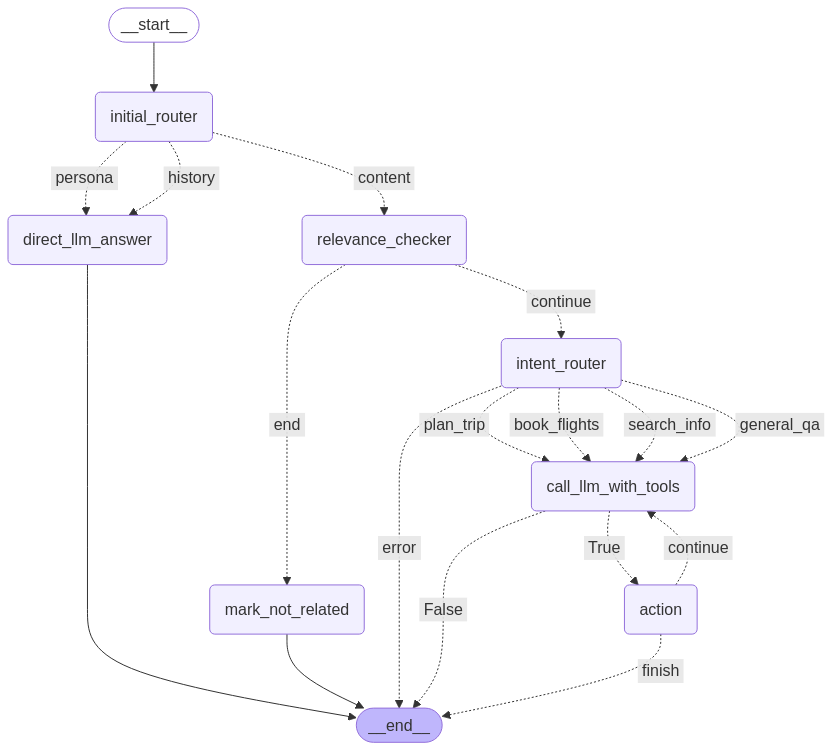
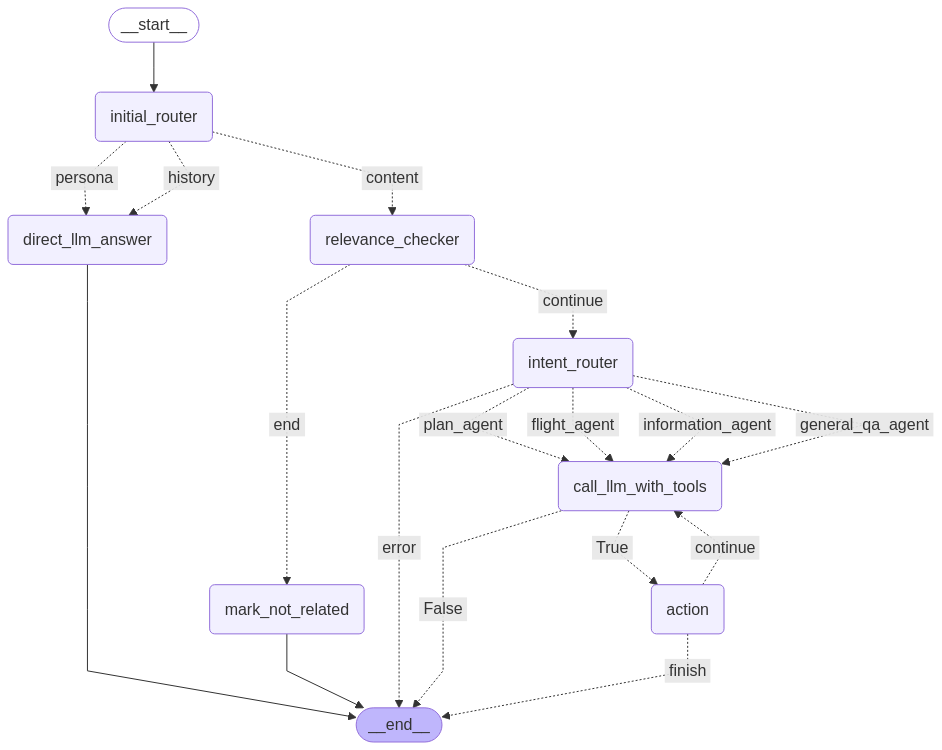
adjust name of function and add mitigation strategies

diff --git a/agents/graph.py b/agents/graph.py
@@ -11,6 +11,7 @@ from agents.tools import plan_da_nang_trip_tool, book_flights_tool
 import sqlite3
 import json
 import logging
+from .history_manager import summarize_conversation_history, prune_conversation_history
 
 load_dotenv()
 
@@ -81,10 +82,10 @@ If a query is irrelevant (not about Da Nang travel, flights to/from relevant loc
             "intent_router",
             self.route_based_on_intent,
             {
-                "plan_trip": "call_llm_with_tools",
-                "book_flights": "call_llm_with_tools",
-                "search_info": "call_llm_with_tools",
-                "general_qa": "call_llm_with_tools",
+                "plan_agent": "call_llm_with_tools",
+                "flight_agent": "call_llm_with_tools",
+                "information_agent": "call_llm_with_tools",
+                "general_qa_agent": "call_llm_with_tools",
                 "error": END
             }
         )
@@ -123,7 +124,7 @@ If a query is irrelevant (not about Da Nang travel, flights to/from relevant loc
 Respond only with the category name.""")
 
         try:
-            print(f"Full message 123123: {state['messages']}")
+            # print(f"Full message 123123: {state['messages']}")
             response = self.router_llm.invoke([routing_prompt, user_message])
             # Strip whitespace, lowercase, AND strip potential quotes
             query_type = response.content.strip().lower().strip('\'"') 
@@ -158,10 +159,18 @@ Respond only with the category name.""")
     def direct_llm_answer(self, state: AgentState):
         """Answers persona or history questions directly using the main LLM (without tools bound initially)."""
         messages = state['messages']
+
+        # <<< APPLY HISTORY MANAGEMENT HERE TOO >>>
+        # Option 1: Summarization
+        messages = summarize_conversation_history(messages, self.llm) # Pass the appropriate LLM instance
+        # Option 2: Pruning
+        # messages = prune_conversation_history(messages)
+
+        # Ensure system prompt if needed (your existing logic)
         if not any(isinstance(m, SystemMessage) for m in messages):
              messages = [SystemMessage(content=self.system)] + messages
 
-        message = self.llm.invoke(messages)
+        message = self.model.invoke(messages)
         return {'messages': [message]}
 
     def check_relevance(self, state: AgentState):
@@ -208,20 +217,20 @@ Respond only with the word 'end' if it IS NOT related.""")
             return {"intent": "error"}
 
         intent_prompt = SystemMessage(content="""Given the user query (which is relevant to Da Nang travel), classify the primary intent:
-- 'plan_trip': User wants a travel plan/itinerary for Da Nang (e.g., 'plan a 3 day trip to Da Nang', 'make an itinerary').
-- 'book_flights': User is asking about flights, potentially to or from Da Nang (e.g., 'flights from Hanoi?', 'show flights on April 19th', 'book a flight from Saigon?').
-- 'search_info': User is asking a question likely requiring external, up-to-date information about Da Nang (weather, opening hours, specific events, prices) that isn't about flights or planning.
-- 'general_qa': User is asking a general question about Da Nang that might be answerable from general knowledge or conversation history, without needing specific tools.
-Respond only with 'plan_trip', 'book_flights', 'search_info', or 'general_qa'.""")
+- 'plan_agent': User wants a travel plan/itinerary for Da Nang (e.g., 'plan a 3 day trip to Da Nang', 'make an itinerary').
+- 'flight_agent': User is asking about flights, potentially to or from Da Nang (e.g., 'flights from Hanoi?', 'show flights on April 19th', 'book a flight from Saigon?').
+- 'information_agent': User is asking a question likely requiring external, up-to-date information about Da Nang (weather, opening hours, specific events, prices) that isn't about flights or planning.
+- 'general_qa_agent': User is asking a general question about Da Nang that might be answerable from general knowledge or conversation history, without needing specific tools.
+Respond only with 'plan_agent', 'flight_agent', 'information_agent', or 'general_qa_agent'.""")
 
         try:
             response = self.router_llm.invoke([intent_prompt, user_message])
             intent = response.content.strip().lower()
             print(f"Intent routing for query '{user_message.content[:50]}...': {intent}")
-            valid_intents = ["plan_trip", "book_flights", "search_info", "general_qa"]
+            valid_intents = ["plan_agent", "flight_agent", "information_agent", "general_qa_agent"]
             if intent not in valid_intents:
-                print(f"Warning: Intent routing returned unexpected value: {intent}. Defaulting to 'general_qa'.")
-                intent = "general_qa"
+                print(f"Warning: Intent routing returned unexpected value: {intent}. Defaulting to 'general_qa_agent'.")
+                intent = "general_qa_agent"
         except Exception as e:
              print(f"Error during intent routing: {e}")
              traceback.print_exc()
@@ -234,7 +243,7 @@ Respond only with 'plan_trip', 'book_flights', 'search_info', or 'general_qa'.""
         intent = state.get("intent")
         print(f"Routing based on intent: {intent}")
         if intent:
-            if intent in ["plan_trip", "book_flights", "search_info", "general_qa"]:
+            if intent in ["plan_agent", "flight_agent", "information_agent", "general_qa_agent"]:
                 return intent
             else:
                 print(f"Warning: Invalid intent '{intent}' found in state. Defaulting to error.")
@@ -247,8 +256,15 @@ Respond only with 'plan_trip', 'book_flights', 'search_info', or 'general_qa'.""
         """Calls the main LLM bound with all relevant tools."""
         print("--- Calling LLM with Tools ---")
         messages = state['messages']
+
+        # <<< APPLY HISTORY MANAGEMENT HERE >>>
+        # Option 1: Summarization
+        messages = summarize_conversation_history(messages, self.llm) # Pass the appropriate LLM instance
+        # Option 2: Pruning
+        # messages = prune_conversation_history(messages)
+
         if not any(isinstance(m, SystemMessage) for m in messages):
-             messages = [SystemMessage(content=self.system)] + messages
+            messages = [SystemMessage(content=self.system)] + messages
 
         print("Messages being sent to LLM:")
         for msg in messages:
@@ -260,7 +276,7 @@ Respond only with 'plan_trip', 'book_flights', 'search_info', or 'general_qa'.""
             else:
                  print(f"    Content: {str(msg.content)[:100]}...")
 
-        print(f"Calling model with messages: {[m.type for m in messages]}")
+        print(f"Calling model with potentially modified messages: {[m.type for m in messages]}")
         message = self.model.invoke(messages)
         print(f"LLM response type: {message.type}")
         if hasattr(message, 'tool_calls') and message.tool_calls:
@@ -458,12 +474,12 @@ Respond only with 'plan_trip', 'book_flights', 'search_info', or 'general_qa'.""
                     intent = "direct_answer"
                 # Prioritize book_flights success
                 elif final_response_data is not None:
-                    intent = "book_flights"
+                    intent = "flight_agent"
                 # Prioritize not related
                 elif final_relevance == "end":
                      intent = "not_related"
                 # Use intent set by intent_router if valid
-                elif final_intent_field in ["plan_trip", "book_flights", "search_info", "general_qa"]:
+                elif final_intent_field in ["plan_agent", "flight_agent", "information_agent", "general_qa_agent"]:
                      intent = final_intent_field
                 # Fallback based on final message content if intent is still unknown (e.g., error occurred)
                 else:
@@ -474,7 +490,7 @@ Respond only with 'plan_trip', 'book_flights', 'search_info', or 'general_qa'.""
                              if "I apologize, but I specialize only in travel related to Da Nang" in final_message.content:
                                  intent = "not_related"
                              else:
-                                 intent = "general_qa" # Default for other AIMessages
+                                 intent = "general_qa_agent" # Default for other AIMessages
                         # ... (keep other message type fallbacks if needed) ...
                     else:
                          intent = "error" # If state is invalid
@@ -484,9 +500,9 @@ Respond only with 'plan_trip', 'book_flights', 'search_info', or 'general_qa'.""
                  response_content = final_state["final_response_data"]
                  print(f"Graph finished. Using final_response_data (Type: {type(response_content)}). Intent: {intent}")
                  # Ensure intent is correctly set for this case
-                 if intent != "book_flights":
-                     logging.warning(f"final_response_data was set, but intent is '{intent}'. Forcing to 'book_flights'.")
-                     intent = "book_flights"
+                 if intent != "flight_agent":
+                     logging.warning(f"final_response_data was set, but intent is '{intent}'. Forcing to 'flight_agent'.")
+                     intent = "flight_agent"
             
             # --- Otherwise, process final message as before --- 
             elif final_state and 'messages' in final_state and final_state['messages']:
@@ -502,11 +518,11 @@ Respond only with 'plan_trip', 'book_flights', 'search_info', or 'general_qa'.""
                      if intent == "error" and "I apologize, but I specialize only in travel related to Da Nang" in response_content:
                          intent = "not_related"
                      # Explicitly set intent if LLM answers directly without tool use after intent routing
-                     elif intent in ["plan_trip", "book_flights", "search_info", "general_qa"] and not hasattr(final_message, 'tool_calls'):
+                     elif intent in ["plan_agent", "flight_agent", "information_agent", "general_qa_agent"] and not hasattr(final_message, 'tool_calls'):
                          print(f"LLM answered directly after intent routing ({intent}). Setting final intent.")
                          pass # Intent should already be correctly set from routing
                      elif intent == "error": # Fallback if intent still unknown
-                        intent = "general_qa" 
+                        intent = "general_qa_agent" 
 
                  elif isinstance(final_message, ToolMessage):
                       print(f"Warning: Graph ended with a ToolMessage: Name='{final_message.name}', Content='{final_message.content[:100]}...'")
@@ -538,10 +554,10 @@ Respond only with 'plan_trip', 'book_flights', 'search_info', or 'general_qa'.""
              intent = "error" # Ensure intent is 'error' on exception
 
         # Ensure intent is one of the expected values or a status
-        valid_intents = ["plan_trip", "book_flights", "search_info", "general_qa", "direct_answer", "not_related", "error"]
+        valid_intents = ["plan_agent", "flight_agent", "information_agent", "general_qa_agent", "direct_answer", "not_related", "error"]
         if intent not in valid_intents:
-             print(f"Warning: Final intent '{intent}' is not in the expected list. Setting to 'general_qa'.")
-             intent = "general_qa" # Fallback to a sensible default if something unexpected happened
+             print(f"Warning: Final intent '{intent}' is not in the expected list. Setting to 'general_qa_agent'.")
+             intent = "general_qa_agent" # Fallback to a sensible default if something unexpected happened
 
         print(f"--- Returning response with intent: {intent} ---")
         return {"response": response_content, "intent": intent}

diff --git a/agents/history_manager.py b/agents/history_manager.py
@@ -1,0 +1,199 @@
+from typing import List, Dict, Any, Optional
+from langchain_core.messages import BaseMessage, SystemMessage, HumanMessage, AIMessage, ToolMessage
+from langchain_core.language_models import BaseChatModel
+import logging
+
+# --- Configuration ---
+# Adjust these thresholds as needed
+SUMMARIZATION_MSG_THRESHOLD = 12 # Summarize if more than this many messages (excluding system prompt)
+PRUNING_MSG_THRESHOLD = 15       # Prune if more than this many messages (excluding system prompt)
+RECENT_MSGS_TO_KEEP = 5          # How many recent messages to always keep during summarization/pruning
+
+# --- Summarization Strategy ---
+
+def summarize_conversation_history(
+    messages: List[BaseMessage],
+    llm: BaseChatModel,
+    threshold: int = SUMMARIZATION_MSG_THRESHOLD,
+    keep_recent: int = RECENT_MSGS_TO_KEEP
+) -> List[BaseMessage]:
+    """
+    Summarizes older parts of the conversation history if it exceeds a threshold.
+
+    Args:
+        messages: The current list of messages.
+        llm: The language model to use for summarization.
+        threshold: The number of messages (excluding system prompt) above which summarization occurs.
+        keep_recent: The number of recent messages to keep outside the summary.
+
+    Returns:
+        A potentially summarized list of messages.
+    """
+    if not messages:
+        return []
+
+    system_prompt: Optional[SystemMessage] = None
+    if isinstance(messages[0], SystemMessage):
+        system_prompt = messages[0]
+        run_messages = messages[1:]
+    else:
+        run_messages = messages
+
+    if len(run_messages) <= threshold:
+        logging.debug("Message count below threshold, skipping summarization.")
+
+        return messages # No summarization needed
+
+    logging.info(f"Message count ({len(run_messages)}) exceeds threshold ({threshold}), attempting summarization.")
+
+    # Separate messages to summarize and messages to keep
+    messages_to_summarize = run_messages[:-keep_recent]
+    messages_to_keep = run_messages[-keep_recent:]
+
+    if not messages_to_summarize:
+        logging.warning("Summarization triggered, but no messages identified to summarize.")
+        return messages # Should not happen with threshold logic, but safety check
+
+    summarization_prompt = HumanMessage(
+        content="""Please summarize the key information and decisions made in the preceding conversation messages. Focus on details relevant to the user's travel planning goals (e.g., requested duration, dates, origin/destination, specific interests mentioned, flight details discussed). Be concise. The summary will be used as context for the ongoing conversation.
+
+CONVERSATION TO SUMMARIZE:
+""" + "\n".join([f"{type(m).__name__}: {m.content}" for m in messages_to_summarize])
+    )
+
+    try:
+        # Use a separate, potentially cheaper/faster model for summarization if desired
+        summary_response = llm.invoke([summarization_prompt])
+        summary_text = summary_response.content
+        summary_message = AIMessage(content=f"Summary of earlier conversation: {summary_text}")
+        logging.info("Summarization successful.")
+
+        # Construct the new message list
+        new_messages = []
+        if system_prompt:
+            new_messages.append(system_prompt)
+        new_messages.append(summary_message)
+        new_messages.extend(messages_to_keep)
+        return new_messages
+
+    except Exception as e:
+        logging.error(f"Error during conversation summarization: {e}")
+        # Fallback: Return original messages if summarization fails
+        return messages
+
+
+# --- Selective Pruning Strategy ---
+
+def prune_conversation_history(
+    messages: List[BaseMessage],
+    max_messages: int = PRUNING_MSG_THRESHOLD,
+    keep_recent: int = RECENT_MSGS_TO_KEEP
+) -> List[BaseMessage]:
+    """
+    Prunes the conversation history if it exceeds a maximum message count,
+    attempting to keep the system prompt, the first user message,
+    tool interactions, and recent messages.
+
+    Args:
+        messages: The current list of messages.
+        max_messages: The maximum number of messages (excluding system prompt) to keep.
+        keep_recent: The number of recent messages to always keep.
+
+    Returns:
+        A potentially pruned list of messages.
+    """
+    if not messages:
+        return []
+
+    system_prompt: Optional[SystemMessage] = None
+    first_human_message: Optional[HumanMessage] = None
+    if isinstance(messages[0], SystemMessage):
+        system_prompt = messages[0]
+        run_messages = messages[1:]
+    else:
+        run_messages = messages
+
+    if len(run_messages) <= max_messages:
+        logging.debug("Message count below threshold, skipping pruning.")
+        return messages # No pruning needed
+
+    logging.info(f"Message count ({len(run_messages)}) exceeds threshold ({max_messages}), attempting pruning.")
+
+    messages_to_consider = run_messages[:-keep_recent]
+    recent_messages = run_messages[-keep_recent:]
+
+    if not messages_to_consider:
+        return messages # Should not happen, safety check
+
+    # Identify messages to keep from the older part
+    kept_older_messages = []
+    # Keep the very first human message (often contains the initial request)
+    if messages_to_consider and isinstance(messages_to_consider[0], HumanMessage):
+         first_human_message = messages_to_consider[0]
+         kept_older_messages.append(first_human_message)
+
+    # Keep tool calls and their results (can be important context)
+    for msg in messages_to_consider[1:]: # Skip first human message if already added
+        if isinstance(msg, (ToolMessage, AIMessage)) and hasattr(msg, 'tool_calls') and msg.tool_calls:
+             kept_older_messages.append(msg)
+        elif isinstance(msg, ToolMessage): # Keep standalone tool messages too
+             kept_older_messages.append(msg)
+
+
+    # Combine kept messages, ensuring no duplicates and respecting order where possible
+    # This is a simple approach; more sophisticated logic could be added
+    final_kept_older = []
+    seen_ids = set()
+    if first_human_message:
+        final_kept_older.append(first_human_message)
+        if hasattr(first_human_message, 'id'): seen_ids.add(first_human_message.id)
+
+    for msg in kept_older_messages:
+        msg_id = getattr(msg, 'id', None)
+        if msg_id and msg_id in seen_ids:
+            continue
+        final_kept_older.append(msg)
+        if msg_id: seen_ids.add(msg_id)
+
+
+    # Construct the new message list
+    new_messages = []
+    if system_prompt:
+        new_messages.append(system_prompt)
+
+    # Add a placeholder if messages were pruned
+    if len(final_kept_older) < len(messages_to_consider):
+         # Using AIMessage as a placeholder, could use a custom class
+         new_messages.append(AIMessage(content="[... older messages pruned ...]"))
+
+    new_messages.extend(final_kept_older)
+    new_messages.extend(recent_messages)
+
+    # Final check if we are still over budget (e.g., too many tool calls kept)
+    # If so, apply simple truncation from the start (after system prompt and placeholder)
+    current_run_messages = new_messages[1:] if system_prompt else new_messages
+    if len(current_run_messages) > max_messages:
+        logging.warning(f"Pruning still resulted in {len(current_run_messages)} messages (max {max_messages}). Truncating further.")
+        over_limit = len(current_run_messages) - max_messages
+        # Remove messages after system prompt / placeholder until limit is met
+        start_index = 1 if system_prompt else 0
+        start_index += 1 if "[... older messages pruned ...]" in new_messages[start_index].content else 0
+        
+        del new_messages[start_index : start_index + over_limit]
+
+
+    logging.info(f"Pruning complete. Kept {len(new_messages)} messages total.")
+    return new_messages
+
+# Example Usage (Conceptual - Don't run directly here)
+# if __name__ == '__main__':
+#     # Assume 'sample_messages' is a list of BaseMessage objects
+#     # Assume 'chat_model' is an instance of a BaseChatModel
+#     # Needs actual message objects and model for real testing
+#
+#     # summarized = summarize_conversation_history(sample_messages, chat_model)
+#     # print("Summarized:", summarized)
+#
+#     # pruned = prune_conversation_history(sample_messages)
+#     # print("Pruned:", pruned)
+#     pass

diff --git a/agents/state.py b/agents/state.py
@@ -1,6 +1,5 @@
 # state.py
 from typing import TypedDict, List, Annotated, Optional, Any
-from langgraph.graph.message import add_messages
 from langchain_core.messages import AnyMessage
 import operator
 
